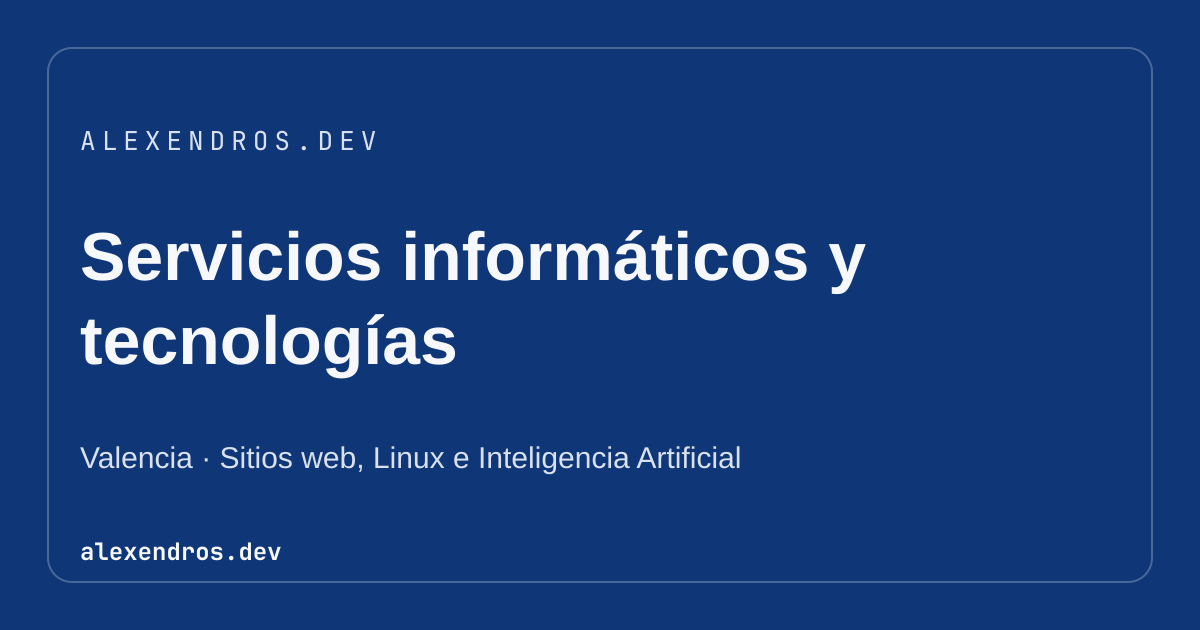
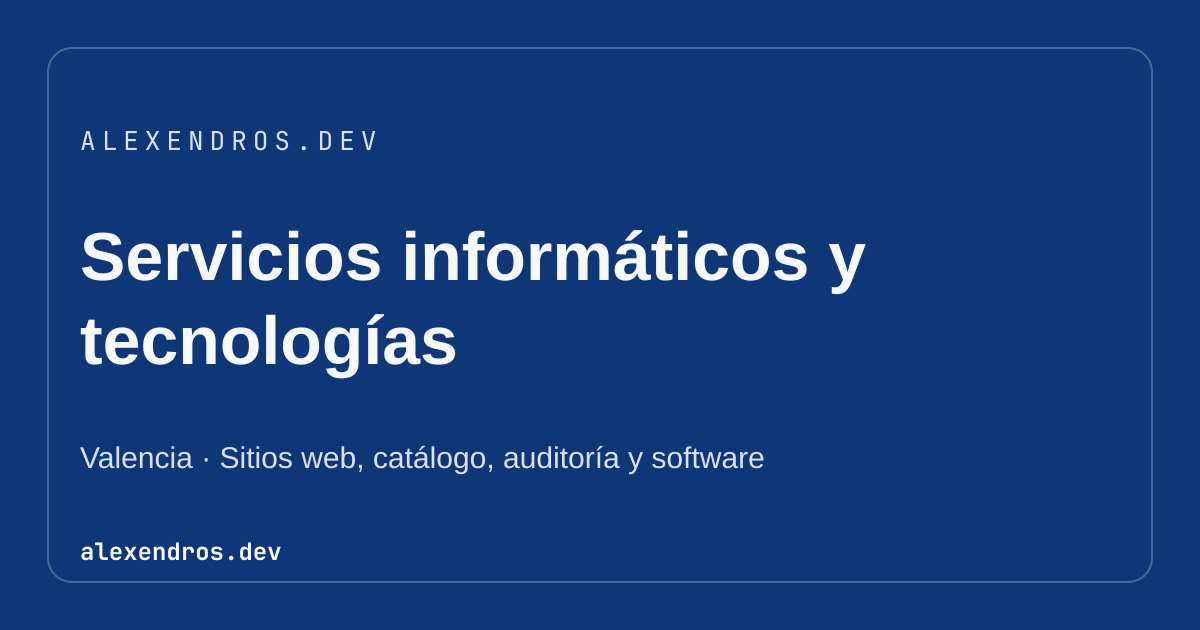
fix: cerrar hallazgos de la pre-revisión ronda 2 (#164)
## Summary
- Alinea meta description, JSON-LD (`knowsAbout`) y OG de la home con el
catálogo (sin Linux ni Inteligencia Artificial).
- Cierra copy residual (H2 del selector, colaboración, Alexendros.me,
condiciones en sobre-mí, alt de /metodo).
- Unifica tarjetas de la home con `ServiceCard`, corrige anclas bajo la
cabecera sticky y pulido de foco/hover/tipografía.

## Test plan
- [x] `pnpm check:copy`, `check:classes`, `lint:css`, `check:contrast`
- [x] `astro check` / pre-commit typecheck + vitest
- [x] e2e `hero-home` y `home-grid-nav`
- [x] Navegación a `#portal-heading` con título bajo la cabecera;
tarjetas clicables; foco por teclado; títulos alineados en 1280 y 390

Made with [Cursor](https://cursor.com)

<!-- CURSOR_SUMMARY -->
---

> [!NOTE]
> **Low Risk**
> Cambios de copy, SEO y presentación; sin lógica de contacto, auth ni
datos sensibles.
> 
> <sup>Reviewed by [Cursor Bugbot](https://cursor.com/bugbot) for commit
a9d669beb69d96386fa2c5419e68dcb16cb08fab. Configure
[here](https://www.cursor.com/dashboard/bugbot).</sup>
<!-- /CURSOR_SUMMARY -->

Changed region(s): [[0.3083, 0.6937, 0.6475, 0.754]]

diff --git a/src/content/services.ts b/src/content/services.ts
@@ -279,7 +279,7 @@ export const services: Service[] = [
     title: 'Colaboración en proyectos de software',
     ogTitle: 'Colaboración en proyectos de software',
     short:
-      'Integración en proyectos grandes con más compañeros: diseño y desarrollo por fases, con alcance y plazo escritos.',
+      'Trabajo por fases con equipos que ya tienen un producto en marcha, con alcance y plazo escritos.',
     description:
       'Colaboración técnica en proyectos de software con equipo existente o ampliado. La intervención se alinea al ritmo del proyecto, se entrega por fases y deja alcance y plazo escritos antes de cada una. No es una web de escaparate ni un paquete cerrado; es trabajo conjunto en un producto o herramienta mayor.',
     audience: [

diff --git a/src/styles/global.css b/src/styles/global.css
@@ -219,6 +219,7 @@
     font-size: var(--step-0);
     line-height: var(--leading-body);
     scrollbar-gutter: stable;
+    scroll-padding-top: calc(var(--header-h) + var(--space-4));
   }
 
   /* Scroll lock mientras hay un dialog modal abierto (DetailIsland). */
@@ -363,12 +364,14 @@
     pointer-events: none;
   }
 
-  .card-lift:hover {
-    transform: translateY(-4px);
-  }
+  @media (hover: hover) {
+    .card-lift:hover {
+      transform: translateY(-4px);
+    }
 
-  .card-lift:hover::before {
-    opacity: 1;
+    .card-lift:hover::before {
+      opacity: 1;
+    }
   }
 
   /* Filete izquierdo de marca en tarjetas planas (valores, ejes, precios). */

diff --git a/tests/e2e/hero-home.spec.ts b/tests/e2e/hero-home.spec.ts
@@ -3,7 +3,7 @@ import { test, expect } from '@playwright/test';
 const H1 = 'Servicios informáticos y tecnologías para empresas y particulares.';
 const TITLE = 'Alexendros — Tecnologías y servicios informáticos';
 const DESCRIPTION =
-  'Sitios web profesionales, integración de catálogo y pagos, aplicaciones para Linux e integración de Inteligencia Artificial. Desde Valencia.';
+  'Sitios web profesionales, integración de catálogo y pagos, auditoría técnica SEO y colaboración en proyectos de software. Desde Valencia.';
 
 const LIST_ITEMS = [
   {

diff --git a/src/content/projects.ts b/src/content/projects.ts
@@ -231,7 +231,7 @@ export const projects: Project[] = [
     slug: 'alexendros-me',
     title: 'Alexendros.me',
     short:
-      'Web personal rápida y clara, centrada en explicar los servicios sin distraer a quien la visita.',
+      'Web personal rápida y clara, centrada en publicar textos largos sin distraer a quien la visita.',
     summary:
       'Espacio propio para explicar servicios y publicar textos largos, con lectura cómoda, privacidad respetada y sin elementos que distraigan.',
     role: 'Diseño, contenido y desarrollo',

diff --git a/src/content/site.ts b/src/content/site.ts
@@ -3,7 +3,7 @@ export const site = {
   url: 'https://alexendros.dev',
   titleDefault: 'Alexendros — Tecnologías y servicios informáticos',
   descriptionDefault:
-    'Sitios web profesionales, integración de catálogo y pagos, aplicaciones para Linux e integración de Inteligencia Artificial. Desde Valencia.',
+    'Sitios web profesionales, integración de catálogo y pagos, auditoría técnica SEO y colaboración en proyectos de software. Desde Valencia.',
   locale: 'es',
   ogLocale: 'es_ES',
   nav: [

diff --git a/src/content/profile.ts b/src/content/profile.ts
@@ -22,7 +22,7 @@ export const profile = {
     },
     {
       title: 'Lo acordado, por escrito',
-      body: 'Antes de empezar quedan definidos el alcance, las exclusiones y el importe. Sin sorpresas en la factura.'
+      body: 'Antes de empezar quedan definidos el alcance, las exclusiones y las condiciones de la propuesta. Sin sorpresas en la factura.'
     }
   ],
   trajectory:

diff --git a/AGENTS.md b/AGENTS.md
@@ -35,5 +35,5 @@ Plan de cierre vigente: [`docs/plans/PLAN-CIERRE-SHIP.md`](docs/plans/PLAN-CIERR
 - Release: semantic-release en `main` crea **tag + GitHub Release**; no usa `@semantic-release/git` (ruleset PR-only). Fuente de verdad de versión = tag. `main-watch.yml` abre issues `alerta:main` si CI/security/Release fallan en `main` o si falla deploy Production; respuesta técnica inmediata documentada en `docs/standards/protocols/ci-release.md`.
 - Renovate (`.github/renovate.json`) es el único bot de version-updates (`npm` + `github-actions`); Dependabot solo alertas (no `dependabot.yml` de updates). Stack majors al día: Astro 7, Zod 4, nodemailer 10, React 19 (issue #12 cerrado).
 - Security: `security.yml` (gitleaks, osv-scanner + `osv-scanner.toml`, CodeQL sin upload); scorecard y dependency-review solo si el repo es público. Residuales documentados en `docs/threat-model.md`.
-- IA (decisión 0026; conserva la navegación de 0021): nav Servicios profesionales (`/servicios`), Proyectos realizados (`/proyectos`), Metodología clara (`/metodo`); aliases 308 desde proceso-y-entrega, metodología, valores y como-trabajo. `/sobre-mi` es página viva (sin enlace en el pie). Home = hero (H1 taxonomía) + Encargos habituales (sitio web/catálogo y pagos/Linux/IA). Proyectos declaran `availability` y `productType` (Portal de empresa · Tienda online · Herramienta automatizada · Website personal). Copy comercial en tercera persona/impersonal en todo el portal. Fichas: informe-comercial, cumplimiento-normativo, ciberseguridad y software-a-medida (sin precio «desde» inventado); sitio web solo vía selector de necesidades. Sesión profesional retirada.
+- IA (decisión 0026; conserva la navegación de 0021): nav Servicios profesionales (`/servicios`), Proyectos realizados (`/proyectos`), Metodología clara (`/metodo`); aliases 308 desde proceso-y-entrega, metodología, valores y como-trabajo. `/sobre-mi` es página viva (sin enlace en el pie). Home = hero (H1 taxonomía) + Encargos habituales (sitio web/catálogo y pagos/auditoría SEO/colaboración en software). Proyectos declaran `availability` y `productType` (Portal de empresa · Tienda online · Herramienta automatizada · Website personal). Copy comercial en tercera persona/impersonal en todo el portal. Fichas: informe-comercial, cumplimiento-normativo, ciberseguridad y software-a-medida (sin precio «desde» inventado); sitio web solo vía selector de necesidades. Sesión profesional retirada.
 - Fichas en índice (decisión 0022): soft-nav con `<dialog>` + `pushState` sobre `/servicios` y `/proyectos`; rutas `[slug]` conservadas para SEO y sin JS. Contacto (decisión 0023): UI mínima (nombre, canal, email|tel, mensaje, consentimiento); motivo/categoría/refs solo ocultos o defaults.

diff --git a/docs/standards/website/diseno.md b/docs/standards/website/diseno.md
@@ -16,7 +16,7 @@
 
 ## 2. Tokens
 
-Definidos en `src/styles/global.css` (`@layer tokens`). Tipografía fluida `--step--1…--step-4` (clamp), espaciado 4px `--space-1…--space-24`, radios `--radius-sm/md/lg`, sombras `--shadow-1/2`, layout `--container` (72rem) / `--container-narrow` (56rem) / `--gutter` / `--header-h`, motion `--ease-out/--ease-in-out`, `--dur-fast/base/slow/reveal`, `--stagger`. Tailwind mapea `text-step-0…4` → `var(--step-*)`; los H1 de página y el hero usan `text-step-4` + `text-balance` (no `text-4xl`/`text-5xl`). La prosa legal sigue en `.legal-prose` con `--step-2`/`--step-1`. La tabla de valores y ratios de contraste está en `/design-system`.
+Definidos en `src/styles/global.css` (`@layer tokens`). Tipografía fluida `--step--1…--step-4` (clamp), espaciado 4px `--space-1…--space-24`, radios `--radius-sm/md/lg`, sombras `--shadow-1/2`, layout `--container` (72rem) / `--container-narrow` (56rem) / `--gutter` / `--header-h`, motion `--ease-out/--ease-in-out`, `--dur-fast/base/slow/reveal`, `--stagger`. Tailwind mapea `text-step--1…4` → `var(--step-*)`; los H1 de página y el hero usan `text-step-4` + `text-balance` (no `text-4xl`/`text-5xl`). La prosa legal sigue en `.legal-prose` con `--step-2`/`--step-1`. La tabla de valores y ratios de contraste está en `/design-system`.
 
 ## 3. Componentes
 

diff --git a/README.md b/README.md
@@ -1,6 +1,6 @@
 # Alexendros — Tecnologías y servicios informáticos
 
-Sitio profesional de [alexendros.dev](https://alexendros.dev): sitios web, integración de catálogo y pagos, aplicaciones para Linux e integración de Inteligencia Artificial. Desde Valencia.
+Sitio profesional de [alexendros.dev](https://alexendros.dev): sitios web, integración de catálogo y pagos, auditoría técnica SEO y colaboración en proyectos de software. Desde Valencia.
 
 ## Servicios y colaboración técnica
 
